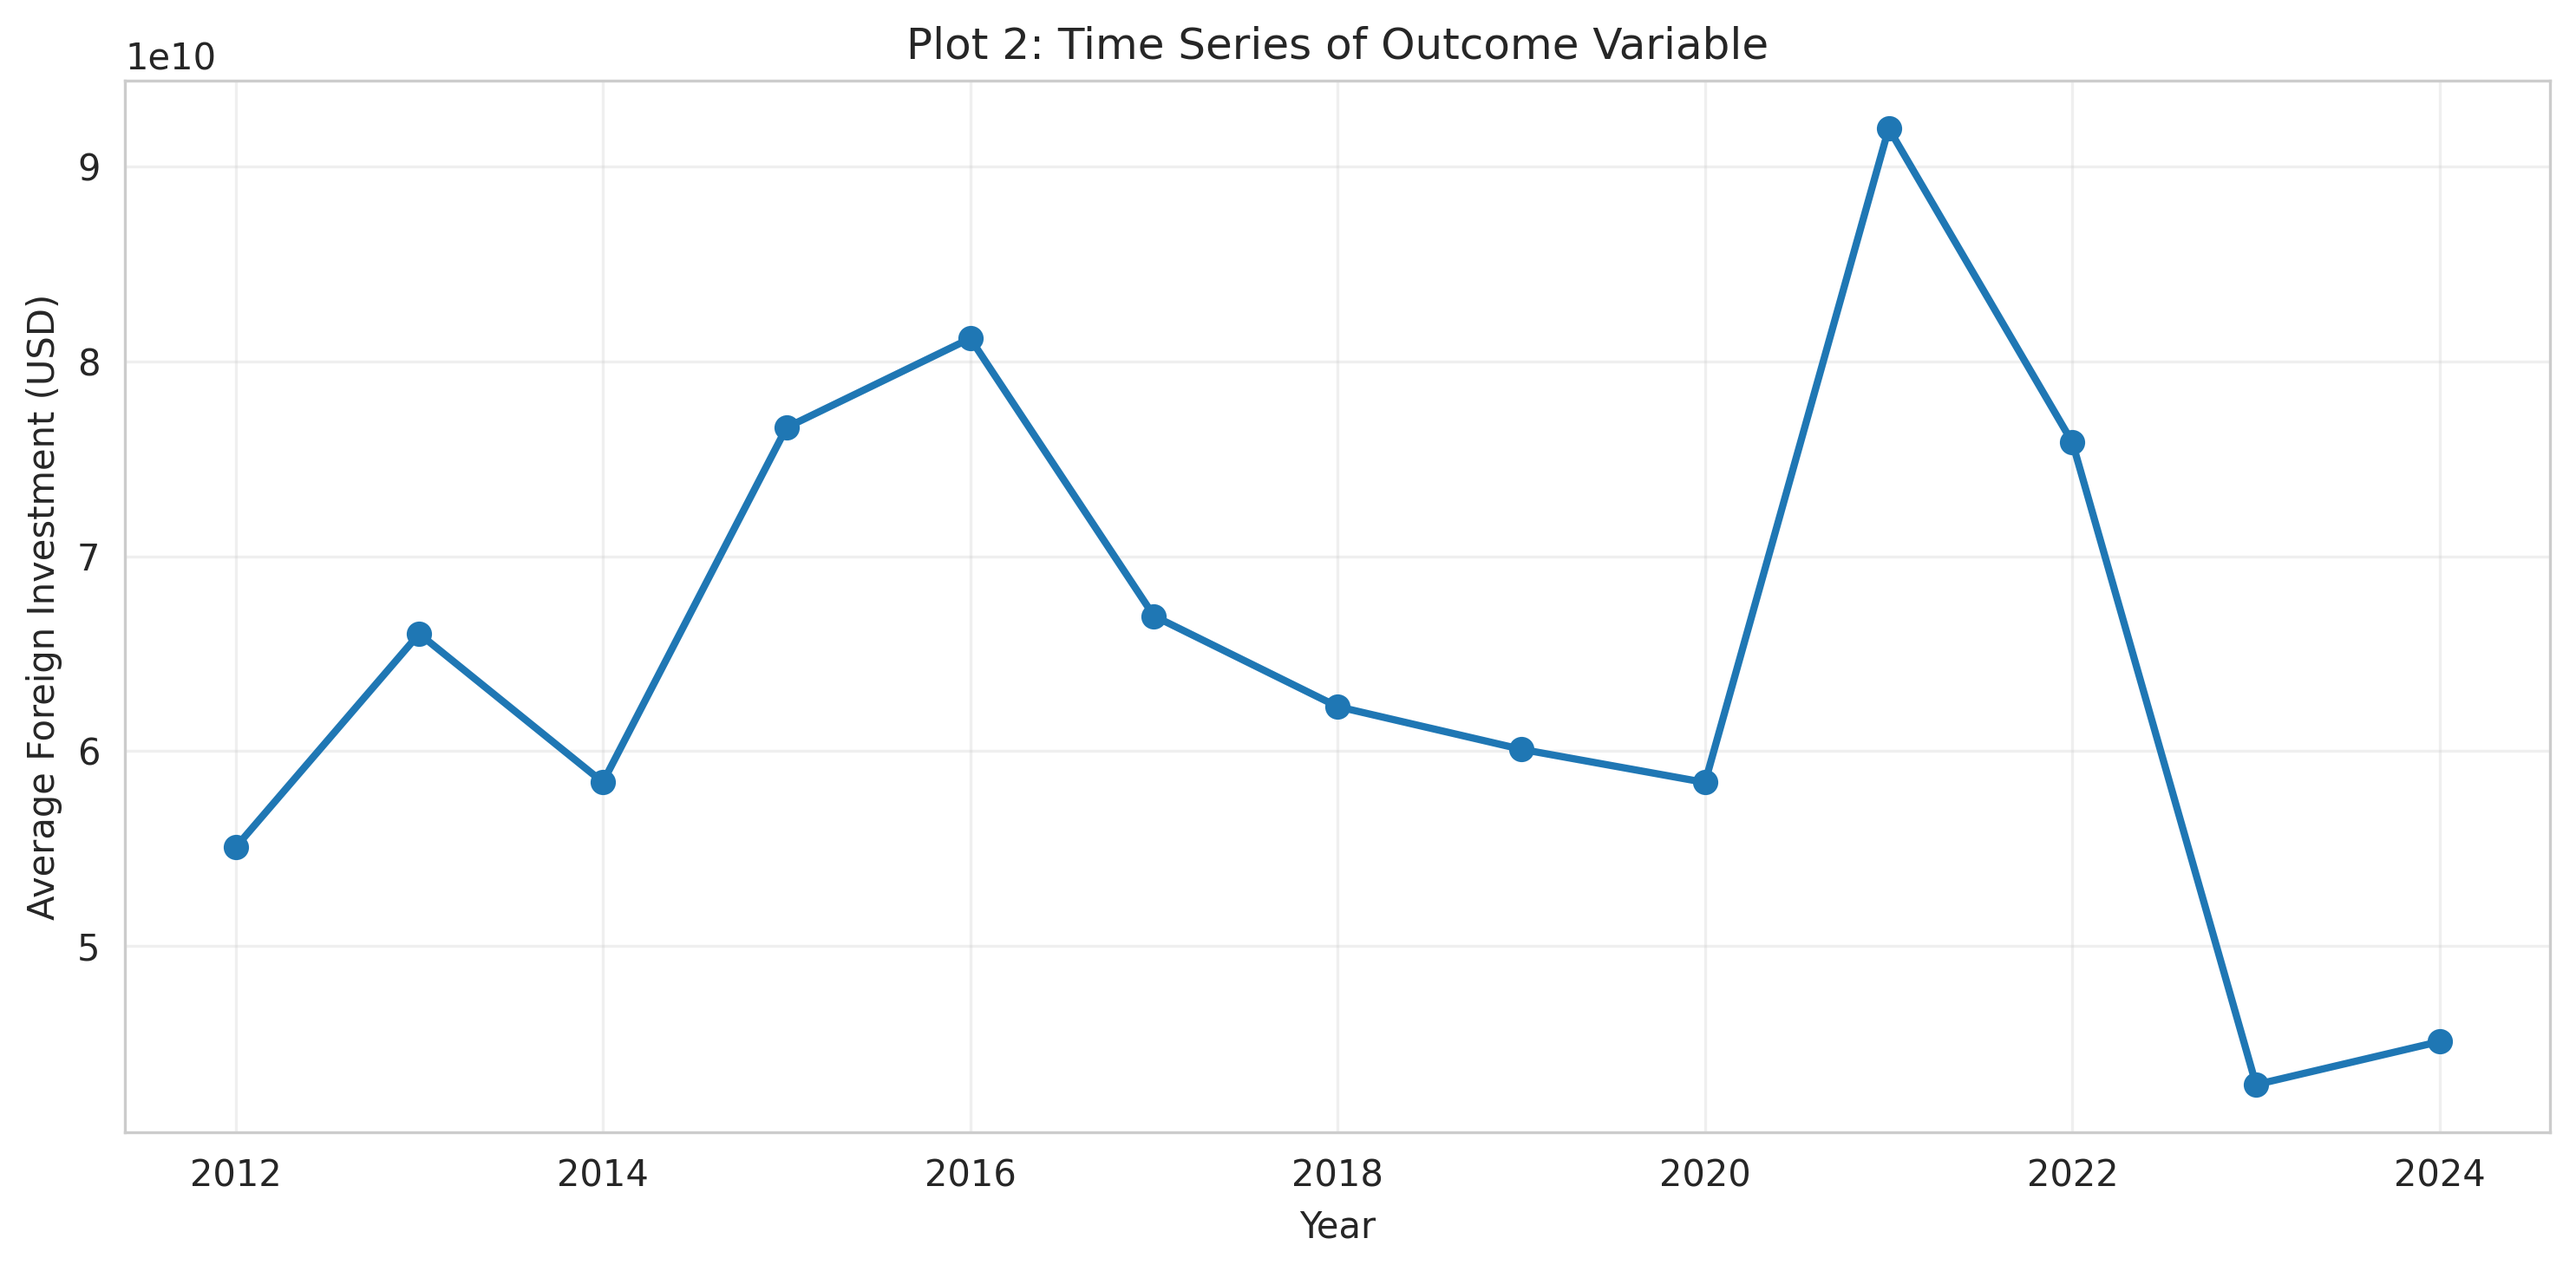
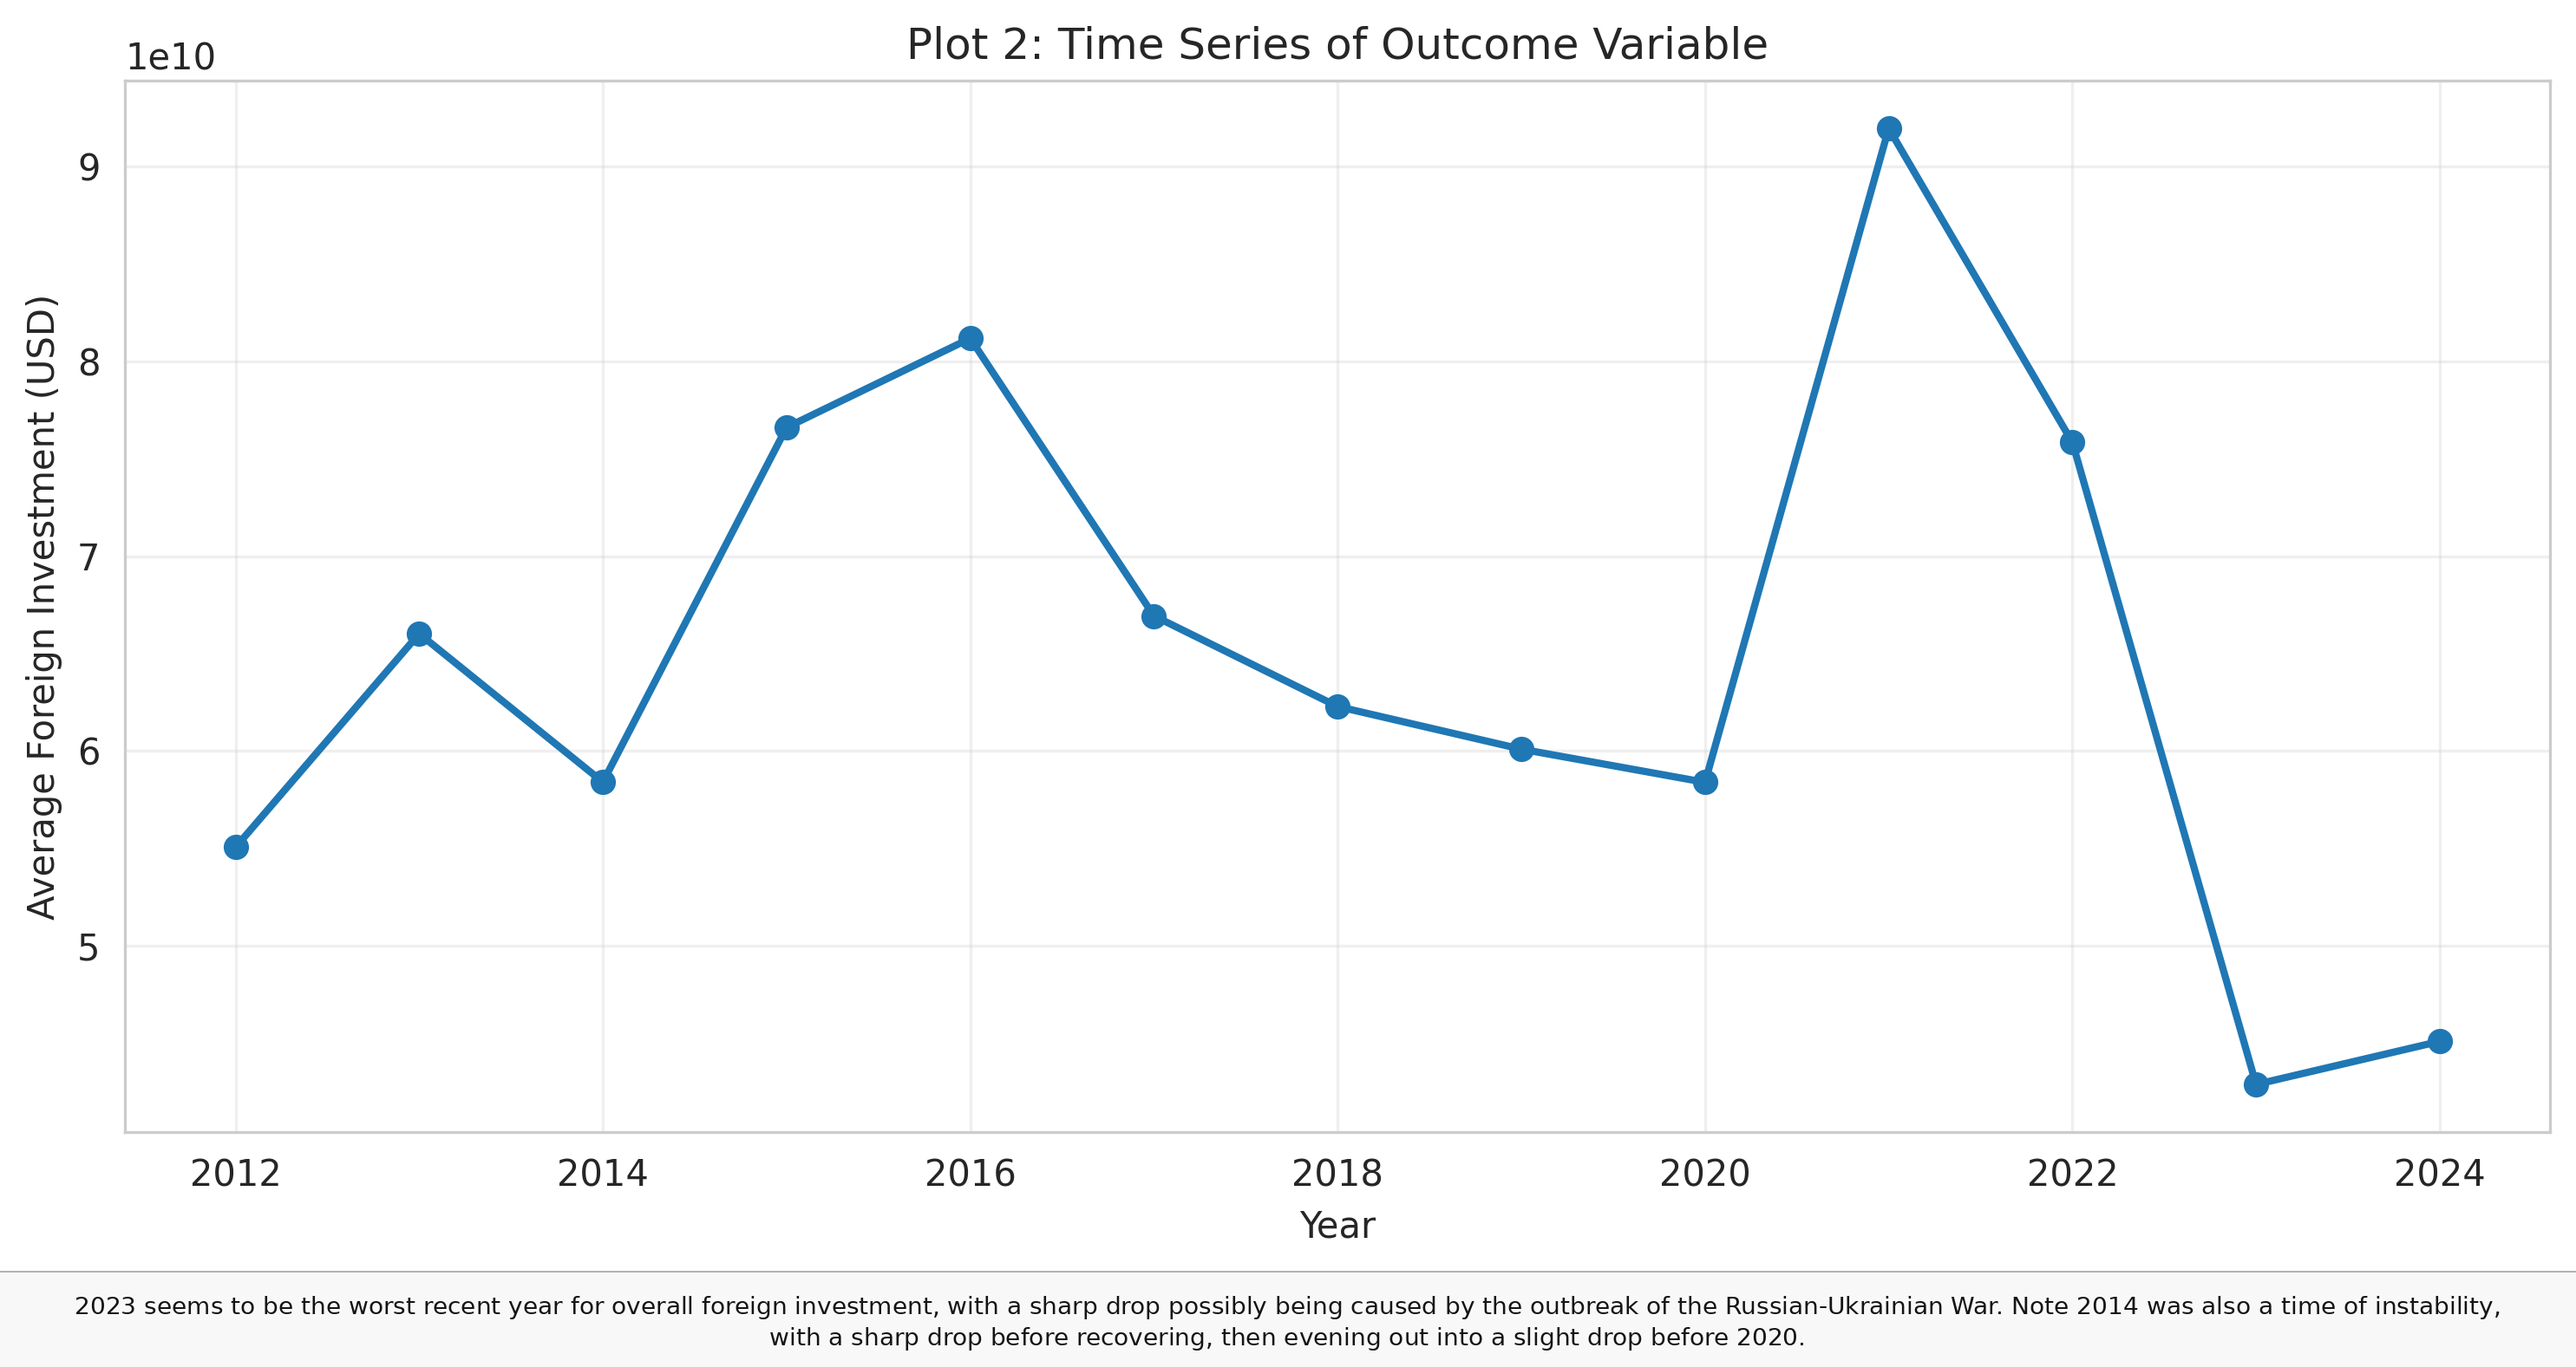
embedded captions to each png, updated ai audit appendix

diff --git a/AI_AUDIT_APPENDIX.md b/AI_AUDIT_APPENDIX.md
@@ -18,3 +18,11 @@ from datetime import datetime
 start = datetime(2015, 1, 1)
 end = datetime(2023, 12, 31)
 fedfunds = pdr.DataReader('FEDFUNDS', 'fred', start, end)
+
+### 2. creating visualizations from cleaned data pipeline.
+
+Prompt: Create visualizations in guidline with the requirements of milestone 2. Add the captions writtin in the text file to each of our graphics
+
+Output: All code written in m2_eda_plots.py, Added captions embedded to the bottom of each visualization.
+
+
